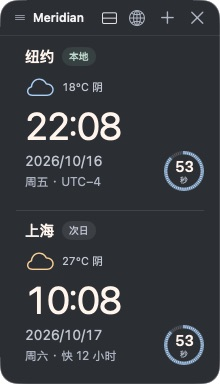
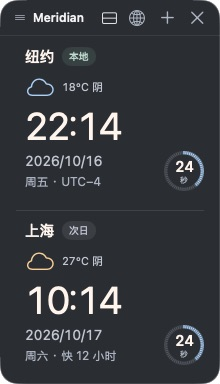
Record native desktop layout and upgrade verification

diff --git a/qa/layouts-qa.md b/qa/layouts-qa.md
@@ -1,0 +1,34 @@
+# Desktop layouts verification — Meridian 1.4.0
+
+Result: **passed**.
+
+## Scope
+
+Extend the existing native clock card with Horizontal, Vertical and Independent clocks. Keep its typography, colors, full date, weather and 42-point seconds orbit. The title-bar layout icon, menu bar More menu and Settings share the same saved choice. No generated UI artwork is used.
+
+## Verified
+
+- 100 model, localization, geometry and layout lifecycle checks passed, plus the single-instance suite.
+- A universal Apple Silicon + Intel build passed deep strict code-signature verification.
+- Installed the production app in Applications, with no fixture dates or preview flags.
+- Switched Horizontal → Vertical → Independent from the native title-bar menu. A two-clock vertical panel is 220 × 384 points; each independent clock is 220 × 210 points.
+- Moved New York and Shanghai separately; only the dragged clock changed position. Closing New York left Shanghai visible and updating. Open restored New York without changing selected regions.
+- Restarted in Independent mode and compared saved configuration: arrangement, both positions, selected regions, menu bar selection and language were preserved.
+- Switched layouts through Settings and visually checked English and Simplified Chinese controls, descriptions and all update options for clipping.
+- Found briefly offset independent TimelineView ticks after rebuilding the layout. Replaced them with one shared whole-second sample, observed only by clock cards. The status menu and weather remain independent of second-level redraws.
+- Rechecked the final production build: both vertical cards read second 24; both advanced to 28 with the layout menu open. Independent clocks continued advancing after switching back.
+- Preserved the user's latest choice after validation: Independent mode, New York closed and Shanghai visible, with all saved positions unchanged.
+- Geometry checks cover six-clock stacks taller than the screen, scrolling, horizontal wrapping on narrow displays, an empty desktop and disconnected-screen recovery. Physical monitor disconnection and sleep/wake were not separately exercised in this turn.
+
+## Evidence
+
+- [Vertical, final production build](layout-vertical-live.jpg)
+- [Independent New York](layout-independent-new-york.jpg)
+- [Independent Shanghai after closing New York](layout-independent-shanghai.jpg)
+- [English Settings](layout-settings-en.jpg)
+- [Native synchronized clock state](layout-final-state.txt)
+- [Upgrade, dragging and restart verification](layout-upgrade-validation.txt)
+
+## Release checks
+
+DMG checksums and the signed update archive were verified. Modified archive bytes were rejected. Release packaging rejects preview flags and noncanonical bundle identifiers. The app remains ad-hoc Apple signed, without Apple notarization.

diff --git a/design-qa.md b/design-qa.md
@@ -40,3 +40,8 @@ final result: passed
 ## Historical QA
 
 Earlier world-clock design history is preserved in `qa/design-qa-before-seconds.md`.
+
+
+## Desktop layouts — 1.4.0
+
+The horizontal, vertical and independent desktop layouts passed native visual and interaction checks. See [the layout verification record](qa/layouts-qa.md) for screenshots, 100 automated checks, close/reopen behavior and restart persistence.
